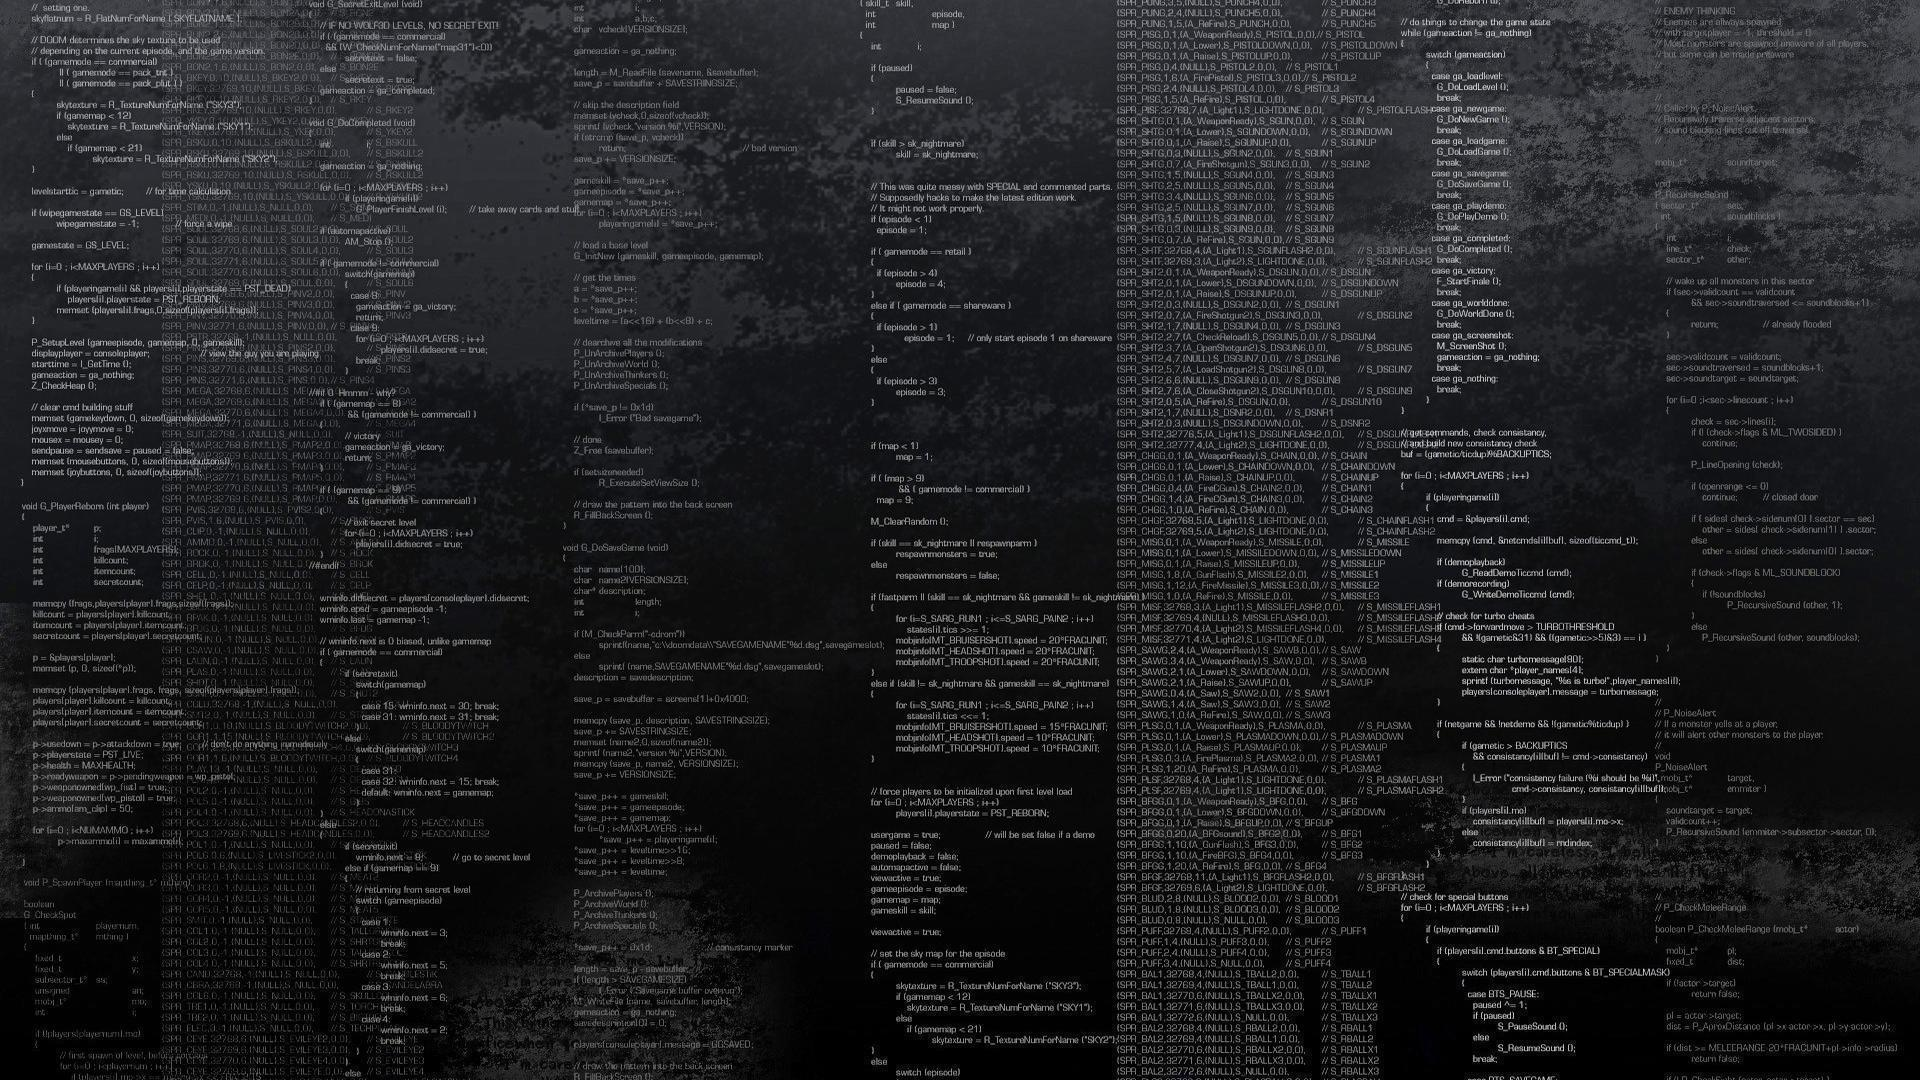
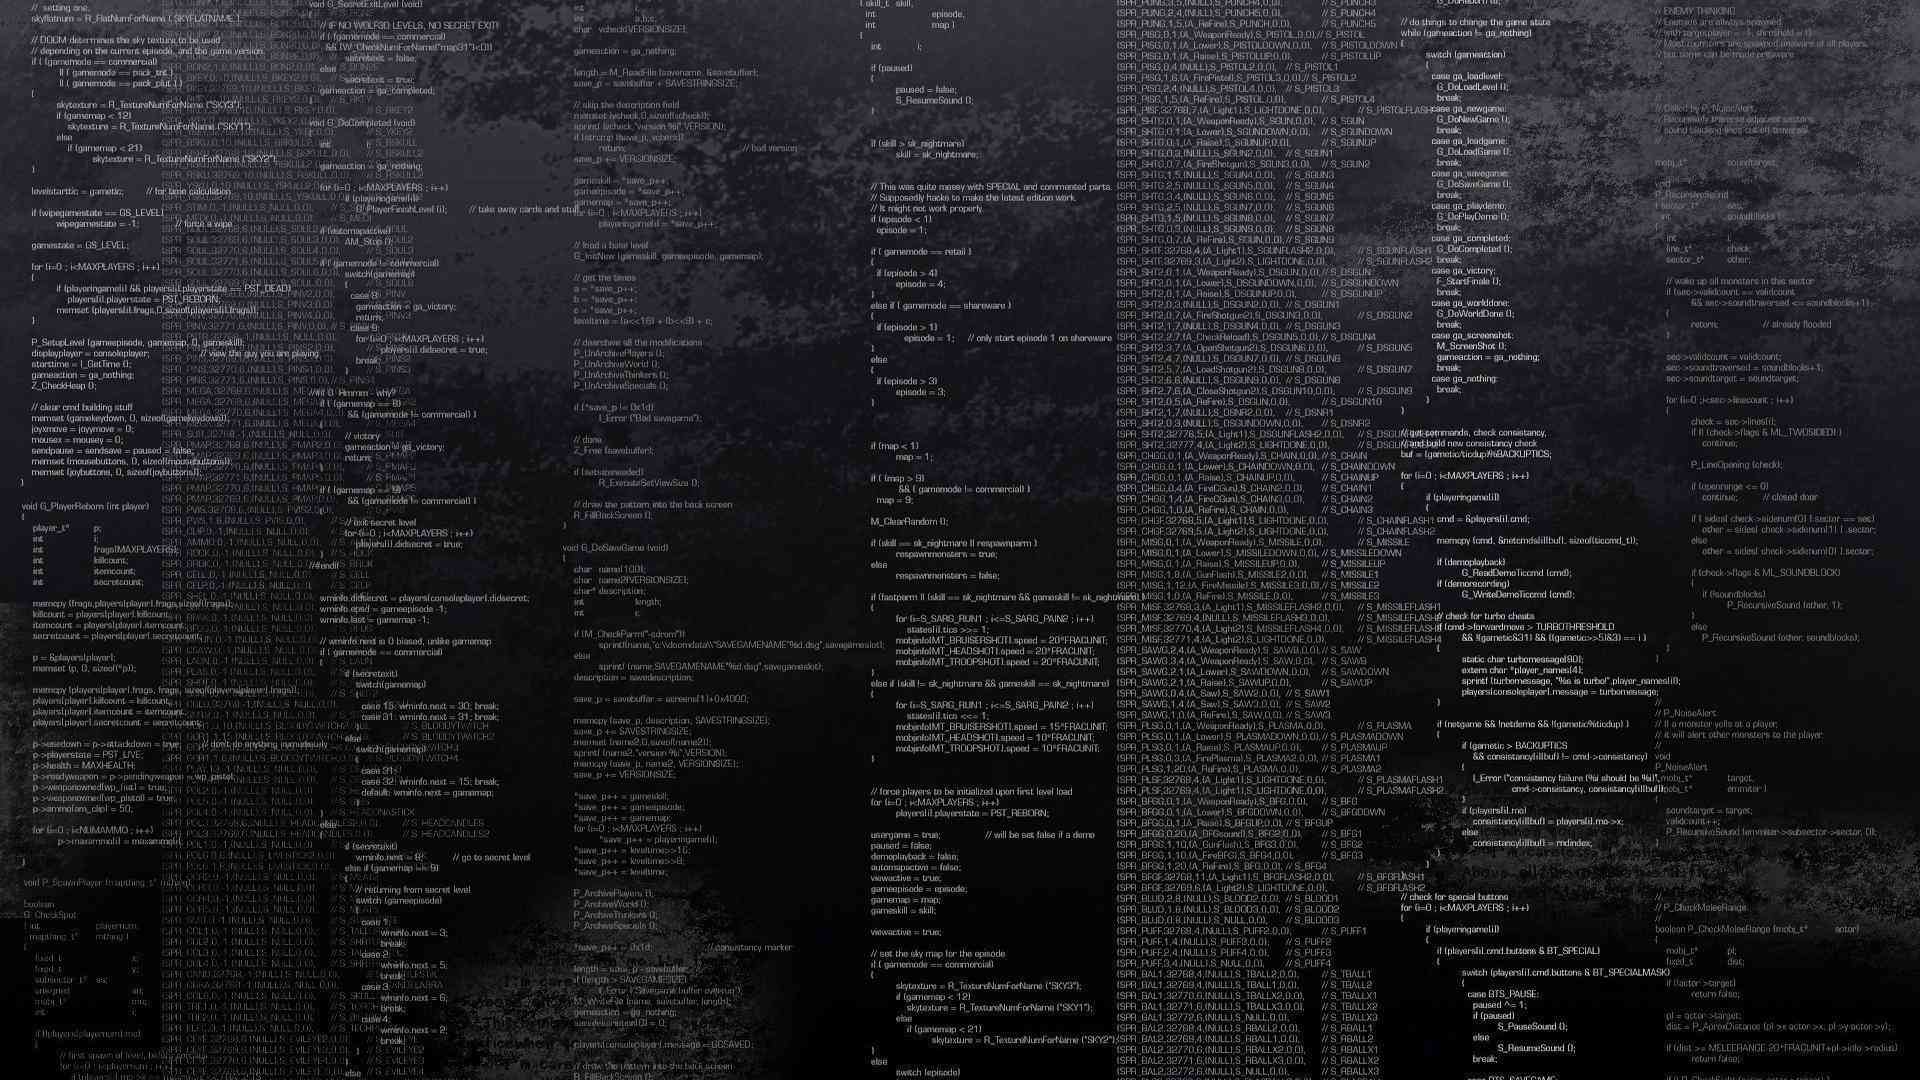
Compressed main bg image

diff --git a/index.html b/index.html
@@ -168,7 +168,4 @@ banner: /images/codingbanner.jpg
 			</div>
 		</div>
 	</div>
-	<div style="text-align: center;">
-		<a href="{{ '/events' | prepend: site.baseurl }}" class="button big special">View All Events</a>
-	</div>
 </section>

diff --git a/_site/index.html b/_site/index.html
@@ -263,9 +263,6 @@
 			</div>
 		</div>
 	</div>
-	<div style="text-align: center;">
-		<a href="/events" class="button big special">View All Events</a>
-	</div>
 </section>
         </div>
 
